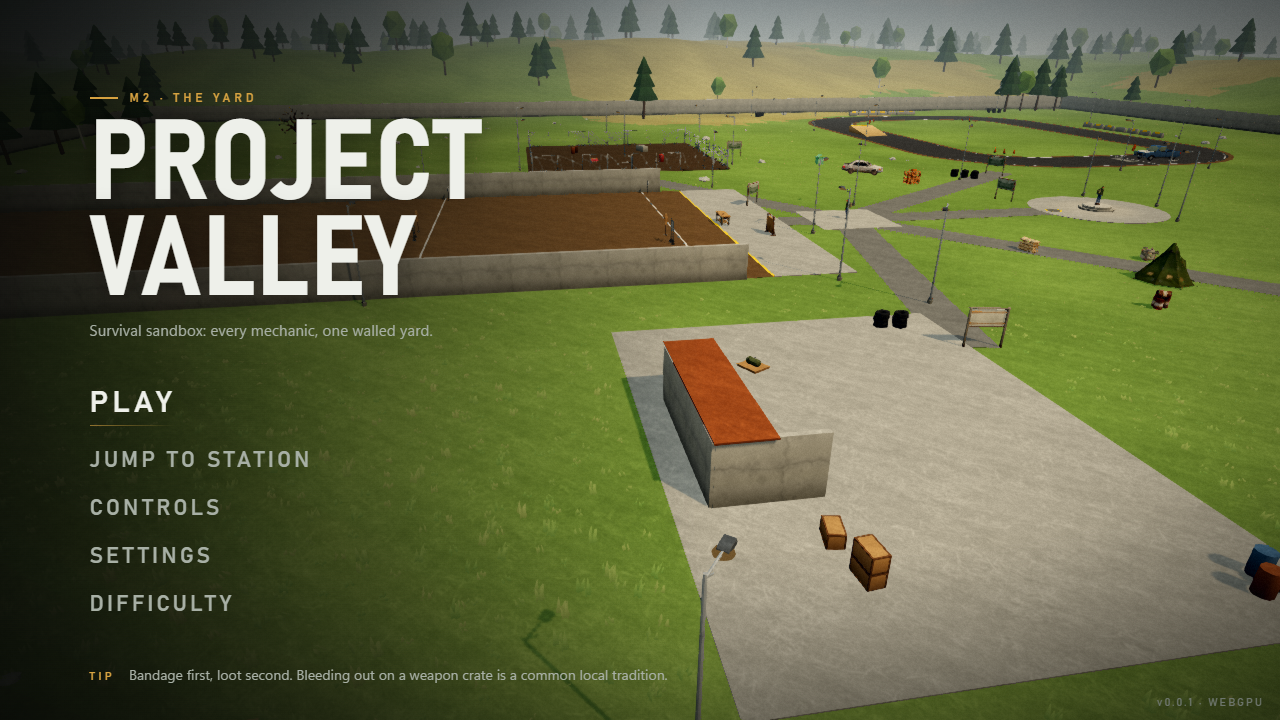
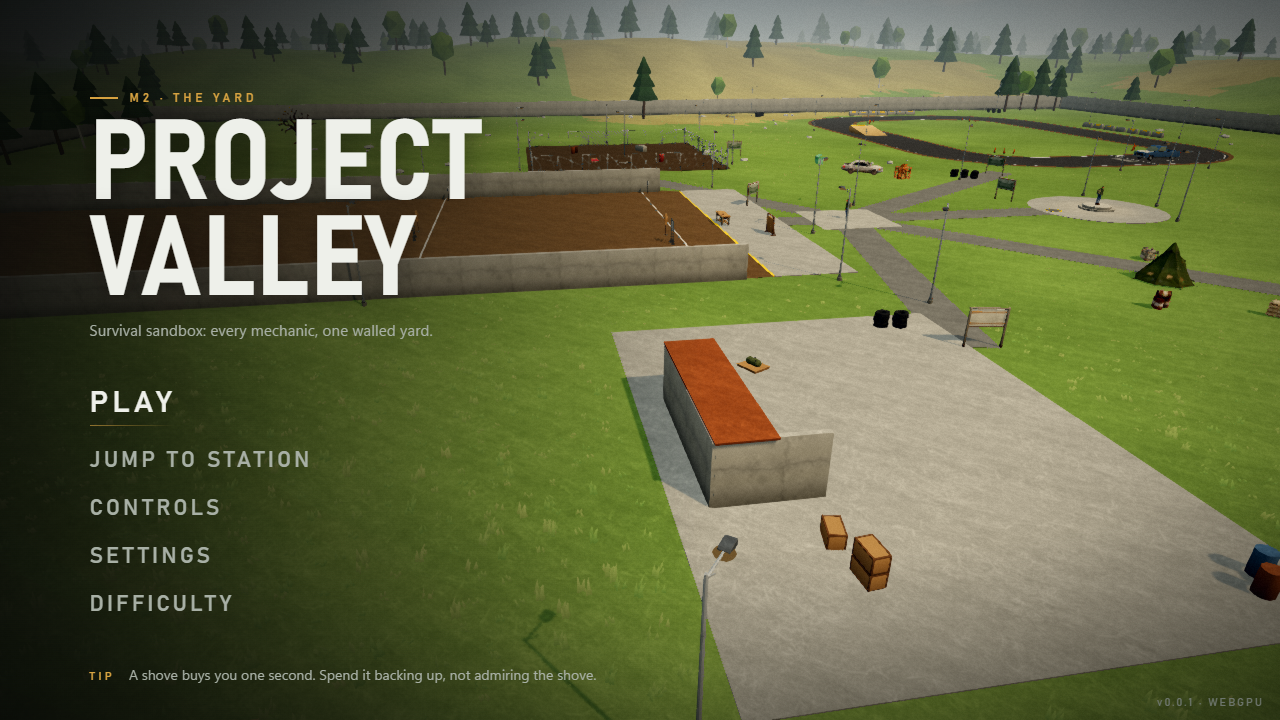
Review fixes: world-detail material only for static geometry (zombies were white), texture-load fallback, rotated prop colliders, grass chunked + culled and kept out of props

diff --git a/src/engine/palette.ts b/src/engine/palette.ts
@@ -11,18 +11,39 @@ import { assetUrl } from './assetUrl';
  */
 let shared: MeshStandardNodeMaterial | null = null;
 
-export async function paletteMaterial() {
-  if (shared) return shared;
+let atlas: Texture | null = null;
+async function paletteAtlas() {
+  if (atlas) return atlas;
   const tex: Texture = await new TextureLoader().loadAsync(assetUrl('assets/textures/palette.png'));
   tex.flipY = false; // glTF UV convention
   tex.colorSpace = SRGBColorSpace;
   tex.generateMipmaps = false;
   tex.minFilter = LinearFilter;
   tex.magFilter = LinearFilter;
-  shared = new MeshStandardNodeMaterial({ roughness: 0.85, metalness: 0 });
-  // World-space detail (AI-generated, see CREDITS.md): luminance-only multipliers so the palette keeps its hues.
-  // Top faces get grass + gravel, side faces get grime + concrete, at two scales to hide tiling; walls darken at the
-  // foot (fake contact AO); a very low-frequency patch tint stops big surfaces looking printed.
+  return (atlas = tex);
+}
+
+/** Plain atlas material: for everything that moves (characters, zombies, weapons, vehicles) and loose pieces. */
+export async function paletteMaterial() {
+  if (shared) return shared;
+  shared = new MeshStandardNodeMaterial({ map: await paletteAtlas(), roughness: 0.85, metalness: 0 });
+  shared.name = 'palette';
+  return shared;
+}
+
+let world: MeshStandardNodeMaterial | null = null;
+/**
+ * The atlas plus world-space surface detail, for STATIC world geometry only (merged yard mesh, instanced statics):
+ * the detail is projected from world position, so it would swim on anything that moves.
+ * AI-generated textures (see CREDITS.md) as luminance-only multipliers so the palette keeps its hues. Top faces get
+ * grass + gravel, side faces grime + concrete, at two scales to hide tiling; walls darken at the foot (fake contact
+ * AO); a very low-frequency patch tint stops big surfaces looking printed. If a texture fails to load, the plain
+ * material is returned instead.
+ */
+export async function paletteWorldMaterial() {
+  if (world) return world;
+  const plain = await paletteMaterial();
+  const tex = await paletteAtlas();
   const load = async (n: string) => {
     const t = await new TextureLoader().loadAsync(assetUrl(`assets/textures/${n}.png`));
     t.wrapS = t.wrapT = RepeatWrapping;
@@ -33,7 +54,15 @@ export async function paletteMaterial() {
     t.generateMipmaps = true;
     return t;
   };
-  const [grass, dirt, concrete, grunge] = await Promise.all([load('grass'), load('dirt'), load('concrete'), load('grunge')]);
+  let tx: Texture[];
+  try {
+    tx = await Promise.all(['grass', 'dirt', 'concrete', 'grunge'].map(load));
+  } catch (e) {
+    console.warn('detail textures failed to load; using the plain palette', e);
+    return (world = plain);
+  }
+  const [grass, dirt, concrete, grunge] = tx;
+  const m = new MeshStandardNodeMaterial({ roughness: 0.85, metalness: 0 });
   const lum = (n: any) => dot(n, vec3(0.2126, 0.7152, 0.0722));
   const wp = positionWorld;
   const top = smoothstep(0.55, 0.85, normalWorld.y);
@@ -49,9 +78,10 @@ export async function paletteMaterial() {
   const foot = float(1).sub(smoothstep(0.9, 0.0, wp.y).mul(float(1).sub(top)).mul(0.35));
   const patch = lum(texture(grunge, xz.mul(0.011)).rgb).mul(0.5).add(0.75);
   const base = texture(tex, uv());
-  shared.colorNode = base.rgb.mul(detail).mul(foot).mul(mix(float(1), patch, top.mul(0.6)));
-  shared.name = 'palette';
-  return shared;
+  m.colorNode = base.rgb.mul(detail).mul(foot).mul(mix(float(1), patch, top.mul(0.6)));
+  m.map = tex;
+  m.name = 'palette_world';
+  return (world = m);
 }
 
 const index = new Map(palette.swatches.map((s, i) => [s.name, i]));

diff --git a/src/world/yard/genProps.ts b/src/world/yard/genProps.ts
@@ -9,22 +9,25 @@ import type { Kit } from './kit';
  * tools/audit/ and docs/progress/2026-11-13-overnight.md). Unlike palette models they keep their own baked texture.
  * Each is a unique object with one box collider from its bounding box. A missing file is skipped, never fatal.
  */
-interface Prop { id: string; x: number; z: number; yaw: number; surface: Surface; solid?: boolean; shrink?: number }
+interface Prop { id: string; x: number; z: number; yaw: number; surface: Surface; solid?: boolean; shrink?: number; r?: number }
 export const genProps: Prop[] = [
   // survivor camp between the spawn and the build pad
   { id: 'tent_military', x: -20, z: 13, yaw: 0.5, surface: 'wood', solid: true },
   { id: 'generator', x: -15.5, z: 16, yaw: -0.4, surface: 'metal', solid: true },
-  { id: 'sandbag_wall', x: -12, z: 9, yaw: 0.2, surface: 'dirt', solid: true },
+  { id: 'sandbag_wall', x: -27, z: 14, yaw: 0.6, surface: 'dirt', solid: true },
   { id: 'barrels', x: -24.5, z: 8.5, yaw: 1.1, surface: 'metal', solid: true },
   // junk corner east of the spawn
-  { id: 'wreck_sedan', x: 22, z: 12, yaw: -0.6, surface: 'metal', solid: true },
+  { id: 'wreck_sedan', x: 22, z: 12, yaw: -0.6, surface: 'metal', solid: true, r: 3.4 },
   { id: 'dumpster', x: 29, z: 9.5, yaw: 0.15, surface: 'metal', solid: true },
-  { id: 'pallet_stack', x: 15, z: 14.5, yaw: 0.3, surface: 'wood', solid: true },
+  { id: 'pallet_stack', x: 18, z: 15, yaw: 0.3, surface: 'wood', solid: true },
   // lone dead trees on open lawn
   { id: 'dead_tree', x: -58, z: -52, yaw: 0, surface: 'wood', shrink: 0.4 },
   { id: 'dead_tree', x: 62, z: -62, yaw: 2, surface: 'wood', shrink: 0.4 },
   { id: 'dead_tree', x: -8, z: 62, yaw: 4, surface: 'wood', shrink: 0.4 },
 ];
+
+/** True when x,z is under a prop's footprint (scatter code keeps grass out of them). */
+export const underGenProp = (x: number, z: number, pad = 0.4) => genProps.some((p) => Math.hypot(x - p.x, z - p.z) < (p.r ?? (p.solid ? 2.4 : 0.6)) + pad);
 
 export async function buildGenProps(kit: Kit) {
   const cache = new Map<string, Promise<{ scene: import('three').Group } | null>>();
@@ -44,15 +47,15 @@ export async function buildGenProps(kit: Kit) {
       mat.roughness = 0.88; mat.metalness = 0; mat.side = 0; // FrontSide
       mesh.castShadow = mesh.receiveShadow = true;
     });
+    o.updateMatrixWorld(true);
+    const local = new Box3().setFromObject(o); // un-rotated, at the origin
     o.position.set(p.x, 0, p.z);
     o.rotation.y = p.yaw;
     kit.game.scene.add(o);
-    o.updateMatrixWorld(true);
     if (p.solid) {
-      const b = new Box3().setFromObject(o);
-      const s = b.getSize(new Vector3()), c = b.getCenter(new Vector3());
+      const s = local.getSize(new Vector3()), c = local.getCenter(new Vector3()).applyAxisAngle(new Vector3(0, 1, 0), p.yaw);
       const k = p.shrink ?? 0.85;
-      kit.cuboid((s.x / 2) * k, s.y / 2, (s.z / 2) * k, c.x, c.y, c.z, 0, p.surface);
+      kit.cuboid((s.x / 2) * k, s.y / 2, (s.z / 2) * k, p.x + c.x, c.y, p.z + c.z, p.yaw, p.surface);
     } else {
       // trunk only
       kit.cuboid(0.25, 1.5, 0.25, p.x, 1.5, p.z, 0, p.surface);

diff --git a/src/world/yard/clutter.ts b/src/world/yard/clutter.ts
@@ -6,6 +6,7 @@ import { yard } from '../../content/data/yard';
 import { createRng } from '../../engine/rng';
 import { groundSurfaceAt } from '../surfaces';
 import { fbm, groundHeight } from './ground';
+import { underGenProp } from './genProps';
 
 /**
  * Ground clutter (no colliders, no shadows): wind-swayed grass tufts on every grass patch of the Yard, plus
@@ -44,7 +45,7 @@ export function buildClutter(game: Game) {
   const rng = createRng(2026);
   const half = yard.half;
   const st = Object.values(yard.stations).map((s) => [s.x - s.w / 2 - 1, s.x + s.w / 2 + 1, s.z - s.d / 2 - 1, s.z + s.d / 2 + 1]);
-  const free = (x: number, z: number) => !st.some(([x0, x1, z0, z1]) => x > x0 && x < x1 && z > z0 && z < z1) && Math.hypot(x - yard.spawn.x, z - yard.spawn.z) > 4.5;
+  const free = (x: number, z: number) => !st.some(([x0, x1, z0, z1]) => x > x0 && x < x1 && z > z0 && z < z1) && Math.hypot(x - yard.spawn.x, z - yard.spawn.z) > 4.5 && !underGenProp(x, z);
 
   // --- grass ---
   const spots: [number, number, number][] = [];
@@ -73,19 +74,29 @@ export function buildClutter(game: Game) {
   const tip = mix(vec3(0.24, 0.36, 0.1), vec3(0.5, 0.45, 0.2), dry);
   mat.colorNode = mix(base, tip, hgt);
   mat.normalNode = transformNormalToView(vec3(0, 1, 0)); // same up-lit shading on both faces of a blade
-  const tuft = new InstancedMesh(tuftGeometry(), mat, spots.length);
-  tuft.name = 'grass_tufts';
+  // 50 m chunks so the frustum culls the grass (the vertex shader's distance shrink saves fill, not vertex work)
+  const CH = 50;
+  const cells = new Map<string, [number, number, number][]>();
+  for (const sp of spots) {
+    const k = `${Math.floor(sp[0] / CH)},${Math.floor(sp[1] / CH)}`;
+    (cells.get(k) ?? cells.set(k, []).get(k)!).push(sp);
+  }
+  const geo = tuftGeometry();
   const m = new Matrix4(), q = new Quaternion(), up = new Vector3(0, 1, 0), sc = new Vector3(), p = new Vector3();
-  spots.forEach(([x, z, r], i) => {
-    q.setFromAxisAngle(up, r * 6.28);
-    const s = 0.8 + r * 0.7;
-    sc.set(s, 0.24 + r * 0.26, s);
-    p.set(x, groundHeight(x, z) - 0.02, z);
-    tuft.setMatrixAt(i, m.compose(p, q, sc));
-  });
-  tuft.castShadow = tuft.receiveShadow = false;
-  tuft.frustumCulled = false;
-  game.scene.add(tuft);
+  for (const [k, list] of cells) {
+    const tuft = new InstancedMesh(geo, mat, list.length);
+    tuft.name = `grass_${k}`;
+    list.forEach(([x, z, r], i) => {
+      q.setFromAxisAngle(up, r * 6.28);
+      const s = 0.8 + r * 0.7;
+      sc.set(s, 0.24 + r * 0.26, s);
+      p.set(x, groundHeight(x, z) - 0.02, z);
+      tuft.setMatrixAt(i, m.compose(p, q, sc));
+    });
+    tuft.castShadow = tuft.receiveShadow = false;
+    tuft.computeBoundingSphere();
+    game.scene.add(tuft);
+  }
 
   // --- rocks ---
   const rockSpots: [number, number, number][] = [];

diff --git a/src/world/yard/kit.ts b/src/world/yard/kit.ts
@@ -12,7 +12,7 @@ import type { Game } from '../../core/game';
 import { loadAsset } from '../../engine/assets';
 import { placeStatic } from '../../engine/instancing';
 import { loadModel } from '../../engine/models';
-import { paletteMaterial, swatchUV } from '../../engine/palette';
+import { paletteWorldMaterial, swatchUV } from '../../engine/palette';
 import { Group, groups } from '../../engine/physics';
 import { addGroundRegion, assetSurface, surfaceOfSwatch, tagCollider, type Surface } from '../surfaces';
 
@@ -153,7 +153,7 @@ export class Kit {
 
   /** Builds the merged palette mesh and one InstancedMesh per repeated asset. */
   async finish() {
-    const mat = await paletteMaterial();
+    const mat = await paletteWorldMaterial();
     const merged = new Mesh(mergeGeometries(this.geos), mat);
     merged.name = 'yard_static';
     merged.castShadow = merged.receiveShadow = true;

diff --git a/src/engine/instancing.ts b/src/engine/instancing.ts
@@ -1,6 +1,7 @@
 import { InstancedMesh, Matrix4, Quaternion, Sphere, Vector3, type Mesh } from 'three';
 import type { Game } from '../core/game';
 import { loadAsset } from './assets';
+import { paletteWorldMaterial } from './palette';
 import { Group, groups } from './physics';
 
 /**
@@ -75,9 +76,10 @@ export async function placeStatic(
   sphere.setFromPoints(pts);
   sphere.radius += radius * Math.max(1, ...placements.map((p) => p.scale ?? 1));
 
+  const worldMat = await paletteWorldMaterial();
   const meshes = levels.map((lv, li) => {
     const src = lv.object as Mesh;
-    const inst = new InstancedMesh(src.geometry, src.material, n);
+    const inst = new InstancedMesh(src.geometry, worldMat, n);
     inst.name = `${id}_LOD${li}_x${n}`;
     inst.castShadow = li === 0 && (opts.castShadow ?? true);
     inst.receiveShadow = true;

diff --git a/src/engine/post.ts b/src/engine/post.ts
@@ -67,7 +67,7 @@ export function installPost(game: Game, settings: PostSettings = { fxaa: true, r
     pipeline.needsUpdate = true;
     direct = !settings.fxaa && !settings.look && settings.renderScale === 1;
     sun.castShadow = settings.shadows;
-    perf.extra.post = `${settings.fxaa ? 'FXAA' : 'no AA'} x${settings.renderScale.toFixed(2)}${settings.shadows ? '' : ' no-shadows'}`;
+    perf.extra.post = `${settings.fxaa ? 'FXAA' : 'no AA'} x${settings.renderScale.toFixed(2)}${settings.shadows ? '' : ' no-shadows'}${settings.look ? '' : ' no-look'}`;
   };
   apply();
 
